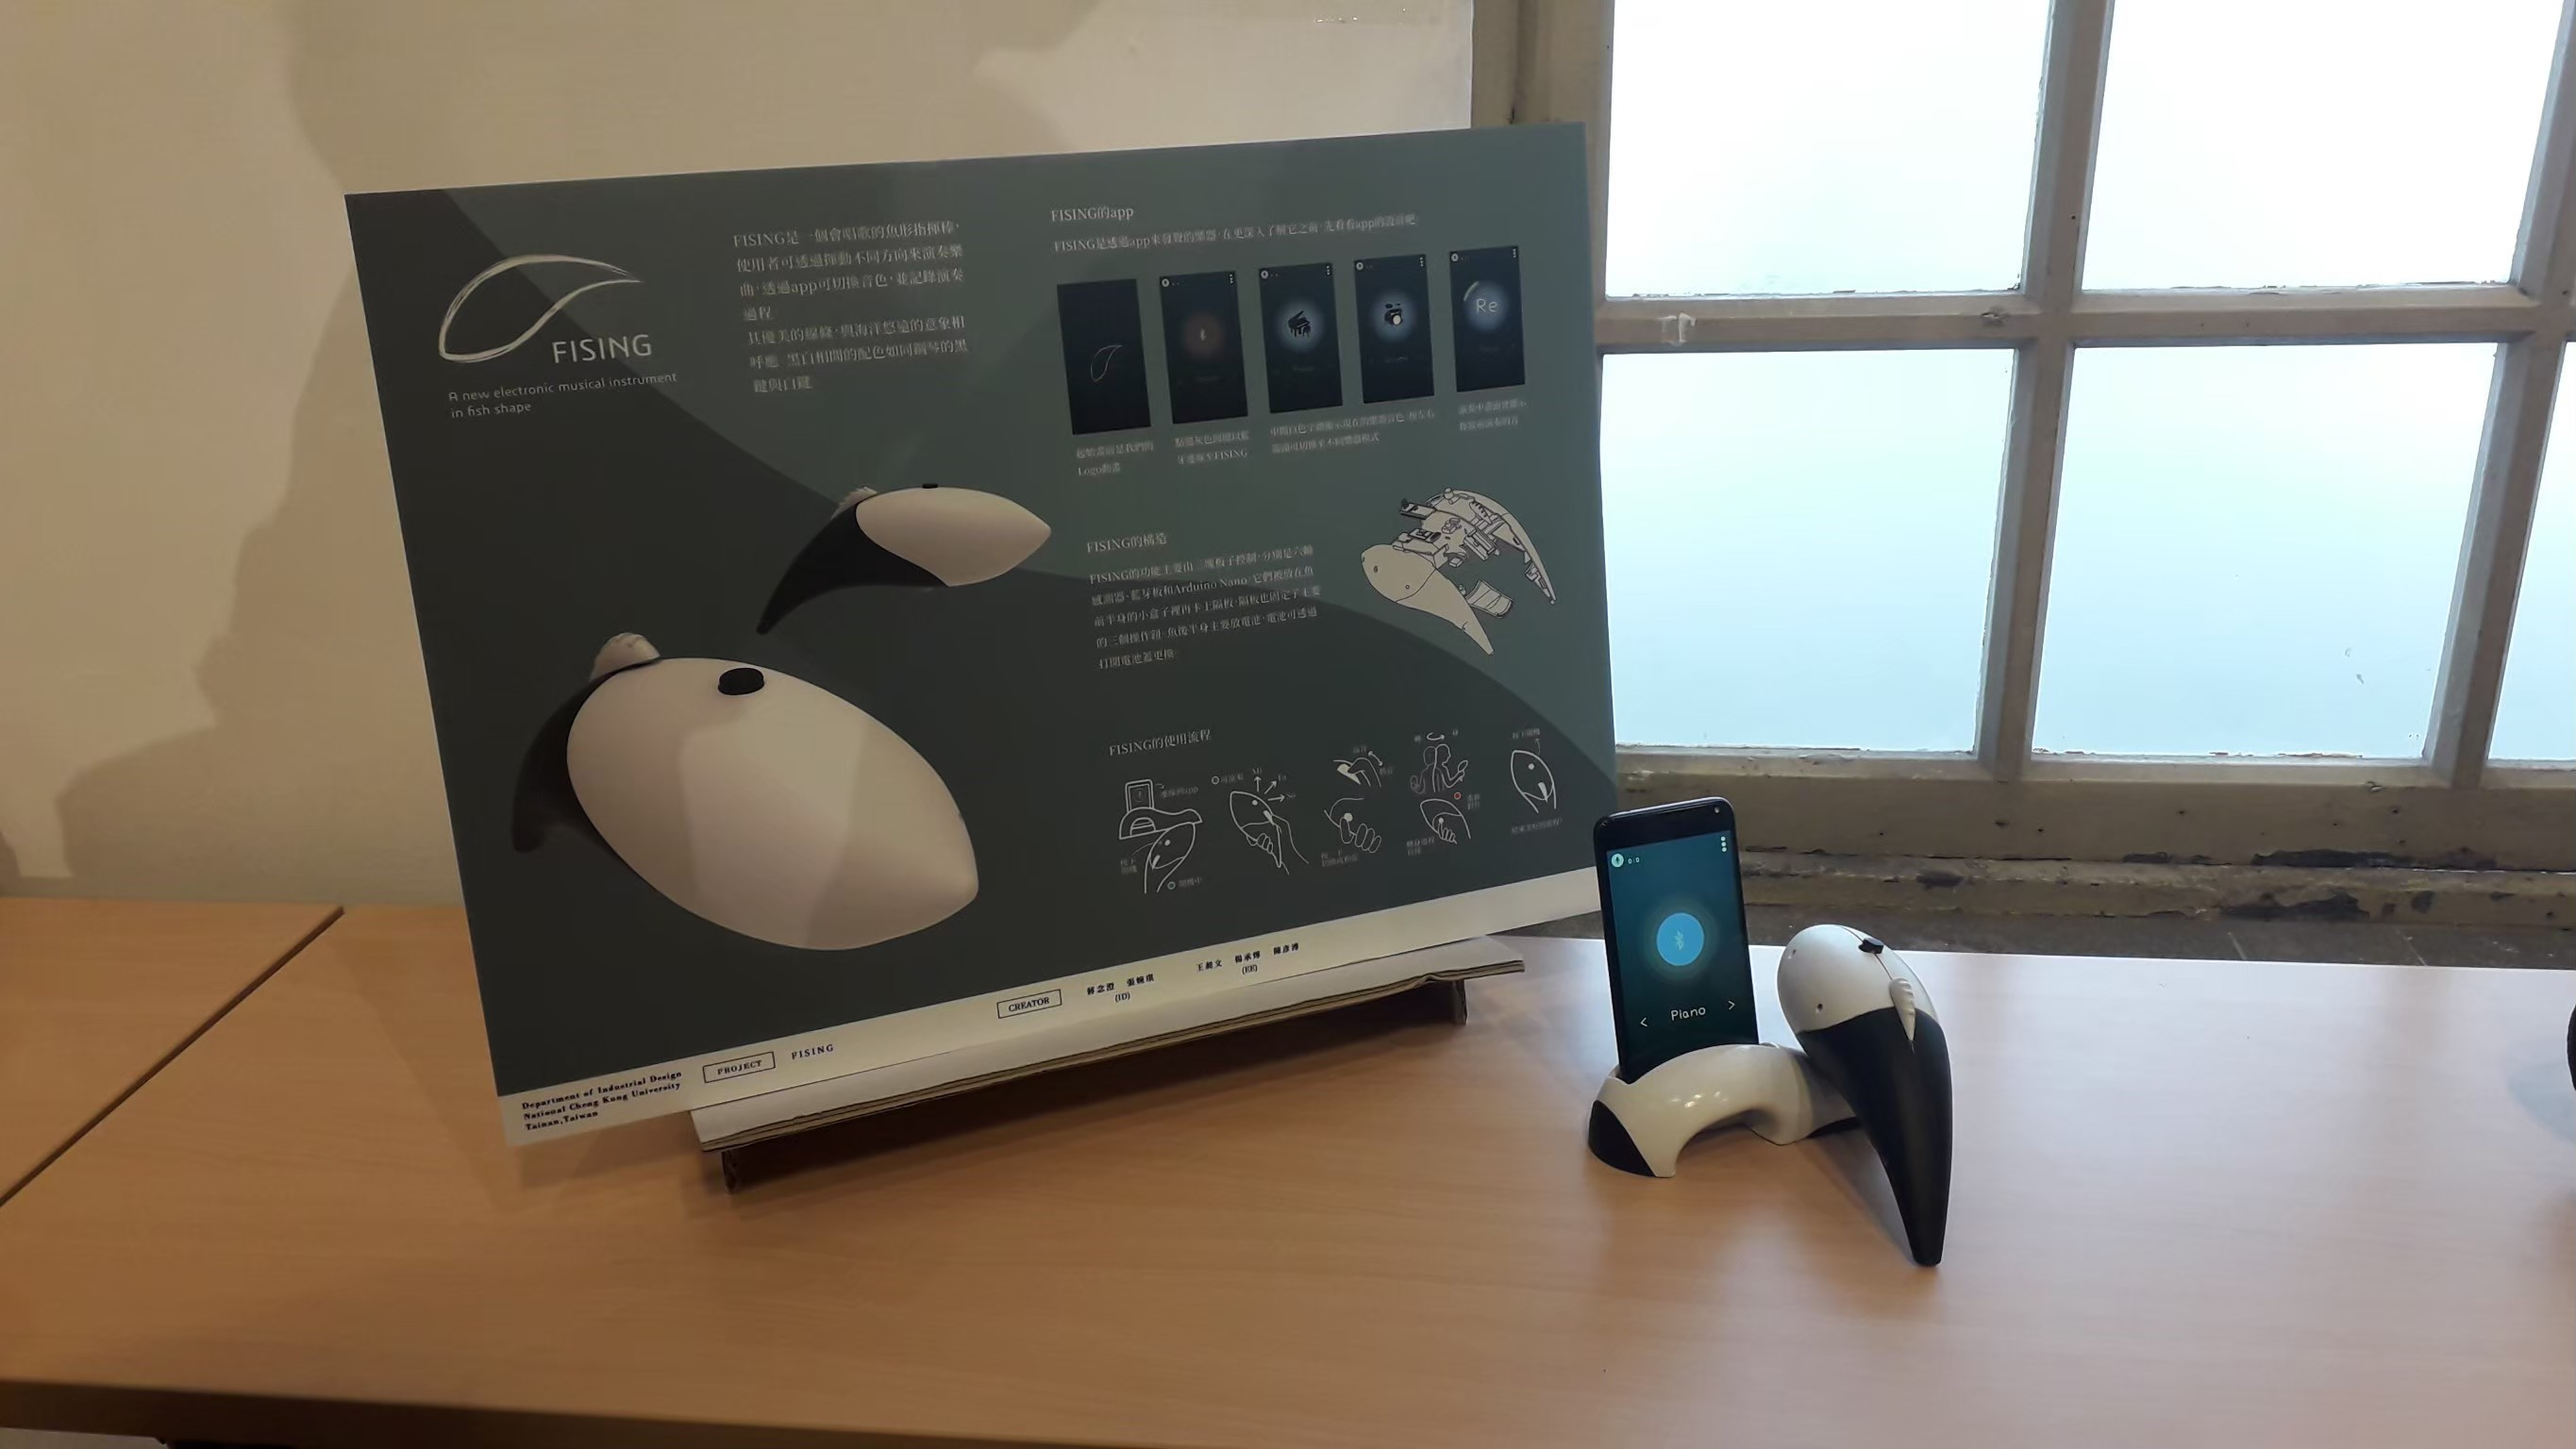
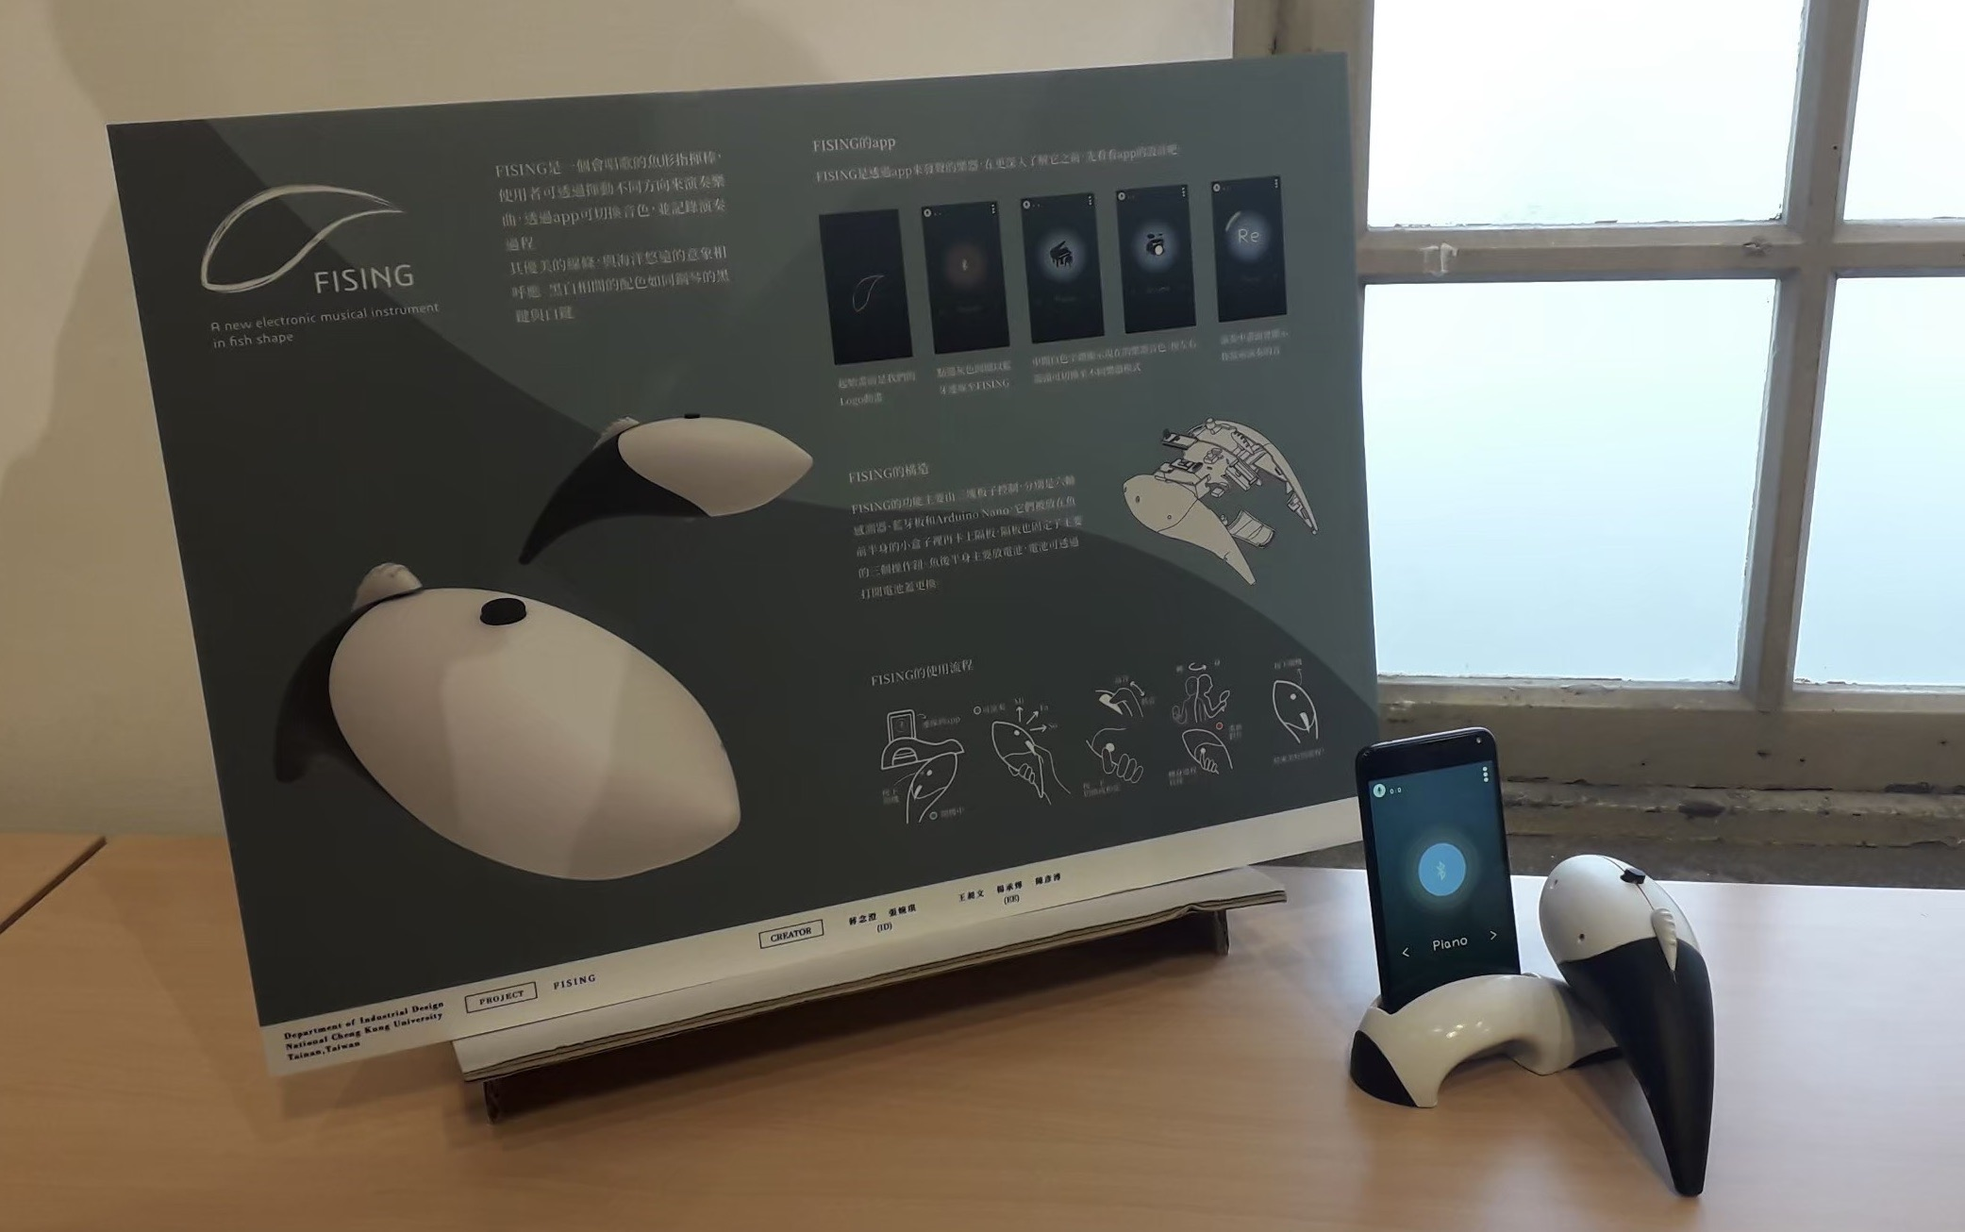
Feat: Modified fising, add prototype

diff --git a/_projects/Fising.md b/_projects/Fising.md
@@ -15,24 +15,28 @@ Due to the ergonomic design, our device looks just like a fish. Since it also si
 My contributions to this project are building the hardware components within the instrument and programming the system. 
 
 <div class="row">
-    <div class="col-sm mt-3 mt-md-0">
+    <div class="col-sm-8 mt-3 mt-md-0">
+        {% include figure.html path="assets/img/fising/demo1.jpg" title="example image" class="img-fluid rounded z-depth-1" %}
+    </div>
+    <div class="col-sm-4 mt-3 mt-md-0">
         {% include figure.html path="assets/img/fising/operate.jpg" title="example image" class="img-fluid rounded z-depth-1" %}
     </div>
+</div>
+<div class="caption">
+    The overall system. We created an App that connects the Fising via Bluetooth to receive instructions from the user. We also have a database for users to choose their preferred instruments, such as the sound of a piano or a drum. The right figure is a demonstration of the usage of our device. 
+</div>
+
+<div class="row">
     <div class="col-sm mt-3 mt-md-0">
-        {% include figure.html path="assets/img/fising/whole.jpg" title="example image" class="img-fluid rounded z-depth-1" %}
+        {% include figure.html path="assets/img/fising/prototype.jpg" title="example image" class="img-fluid rounded z-depth-1" %}
     </div>
     <div class="col-sm mt-3 mt-md-0">
         {% include figure.html path="assets/img/fising/semi.jpg" title="example image" class="img-fluid rounded z-depth-1" %}
     </div>
-</div>
-<div class="caption">
-    On the left is a demonstration of the usage of our device. The middle is what our device looks like, and the hardware embedded inside the device is on the right.
-</div>
-<div class="row">
     <div class="col-sm mt-3 mt-md-0">
-        {% include figure.html path="assets/img/fising/demo1.jpg" title="example image" class="img-fluid rounded z-depth-1" %}
+        {% include figure.html path="assets/img/fising/whole.jpg" title="example image" class="img-fluid rounded z-depth-1" %}
     </div>
 </div>
 <div class="caption">
-    The overall system. We created an App that connects the Fising via Bluetooth to receive instructions from the user. We also have a database for users to choose their preferred instruments, such as the sound of a piano or a drum.
+    The evolution of our device, starting from the prototype on the left to the end product on the right.
 </div>
